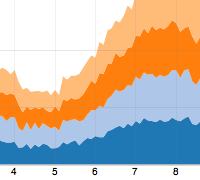
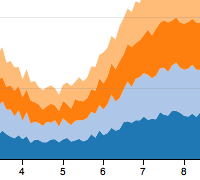
Polish stack example.

diff --git a/www/ex/stack-full.html b/www/ex/stack-full.html
@@ -1,9 +1,9 @@
 <html>
   <head>
-    <title>Step Chart</title>
-    <link type="text/css" rel="stylesheet" href="ex.css?3.2"/>
+    <title>Stacked Area Chart</title>
+    <link type="text/css" rel="stylesheet" href="ex.css?3.1"/>
     <script type="text/javascript" src="../protovis-r3.2.js"></script>
-    <script type="text/javascript" src="line.js"></script>
+    <script type="text/javascript" src="stack.js"></script>
     <style type="text/css">
 
 #fig {
@@ -19,8 +19,8 @@
 /* Sizing and scales. */
 var w = 400,
     h = 200,
-    x = pv.Scale.linear(data, function(d) d.x).range(0, w),
-    y = pv.Scale.linear(0, 4).range(0, h);
+    x = pv.Scale.linear(0, 9.9).range(0, w),
+    y = pv.Scale.linear(0, 14).range(0, h);
 
 /* The root panel. */
 var vis = new pv.Panel()
@@ -31,34 +31,30 @@ var vis = new pv.Panel()
     .right(10)
     .top(5);
 
-/* X-axis ticks. */
+/* X-axis and ticks. */
 vis.add(pv.Rule)
     .data(x.ticks())
-    .visible(function(d) d > 0)
+    .visible(function(d) d)
     .left(x)
-    .strokeStyle("#eee")
-  .add(pv.Rule)
     .bottom(-5)
     .height(5)
-    .strokeStyle("#000")
   .anchor("bottom").add(pv.Label)
     .text(x.tickFormat);
 
-/* Y-axis ticks. */
+/* The stack layout. */
+vis.add(pv.Layout.Stack)
+    .layers(data)
+    .x(function(d) x(d.x))
+    .y(function(d) y(d.y))
+  .layer.add(pv.Area);
+
+/* Y-axis and ticks. */
 vis.add(pv.Rule)
-    .data(y.ticks(5))
+    .data(y.ticks(3))
     .bottom(y)
-    .strokeStyle(function(d) d ? "#eee" : "#000")
+    .strokeStyle(function(d) d ? "rgba(128,128,128,.2)" : "#000")
   .anchor("left").add(pv.Label)
     .text(y.tickFormat);
-
-/* The line. */
-vis.add(pv.Line)
-    .data(data)
-    .interpolate("step-after")
-    .left(function(d) x(d.x))
-    .bottom(function(d) y(d.y))
-    .lineWidth(3);
 
 vis.render();
 

diff --git a/www/ex/bar-full.html b/www/ex/bar-full.html
@@ -1,6 +1,6 @@
 <html>
   <head>
-    <title>Stacked Bar Chart</title>
+    <title>Bar Chart</title>
     <link type="text/css" rel="stylesheet" href="ex.css?3.1"/>
     <script type="text/javascript" src="../protovis-r3.2.js"></script>
     <script type="text/javascript" src="bar.js"></script>

diff --git a/www/ex/stack.js b/www/ex/stack.js
@@ -1,0 +1,5 @@
+var data = pv.range(4).map(function() {
+    return pv.range(0, 10, .1).map(function(x) {
+        return {x: x, y: Math.sin(x) + Math.random() * .5 + 2};
+      });
+  });
